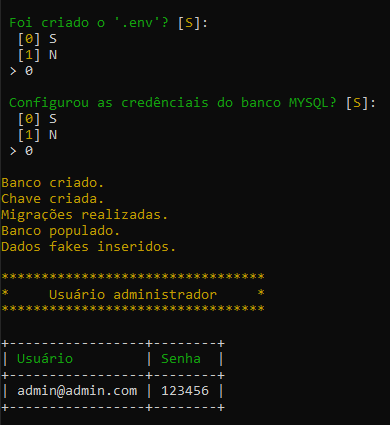
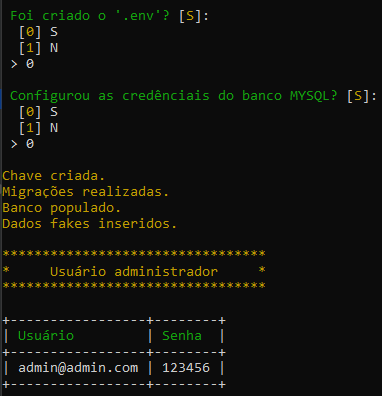
alterado start da aplicação

diff --git a/app/Console/Commands/dbcheck.php b/app/Console/Commands/dbcheck.php
@@ -5,14 +5,14 @@ namespace App\Console\Commands;
 use Illuminate\Console\Command;
 use Illuminate\Support\Facades\DB;
 
-class dbcreate extends Command
+class dbcheck extends Command
 {
     /**
      * The name and signature of the console command.
      *
      * @var string
      */
-    protected $signature = 'db:create {name?}';
+    protected $signature = 'db:check';
 
     /**
      * The console command description.
@@ -38,16 +38,14 @@ class dbcreate extends Command
      */
     public function handle()
     {
-        $schemaName = $this->argument('name') ?: config("database.connections.mysql.database");
-        $charset = config("database.connections.mysql.charset");
-        $collation = config("database.connections.mysql.collation");
+        if(!getenv('APP_NAME'))
+            die($this->error('.env não encontrado'));
 
-        config(["database.connections.mysql.database" => null]);
-
-        $query = "CREATE DATABASE IF NOT EXISTS $schemaName CHARACTER SET $charset COLLATE $collation;";
-
-        DB::statement($query);
-
-        config(["database.connections.mysql.database" => $schemaName]);
+        try {
+            DB::connection()->getPdo();
+        } catch (\Exception $e) {
+            die($this->error('Banco não encontrado'));
+        }
     }
+
 }

diff --git a/app/Console/Commands/start.php b/app/Console/Commands/start.php
@@ -43,14 +43,11 @@ class start extends Command
         $db = $this->choice("Configurou as credênciais do banco MYSQL?", ['S', 'N'], 0);
         if ($db == 'N') exit;
 
-        $this->callSilent('config:cache');
-        $this->call('db:create');
-        $this->comment('Banco criado.');
+        $this->call('db:check');
 
         $this->callSilent('key:generate');
         $this->comment('Chave criada.');
 
-        $this->callSilent('config:cache');
 
         $this->callSilent('migrate'); //--seed
         $this->comment('Migrações realizadas.');

diff --git a/README.md b/README.md
@@ -68,7 +68,7 @@ Instalar composer
 $ composer install
 ```
 
-Configurar `.env` com as credências do banco `Mysql` 
+Criar `database` e configurar `.env` com as credênciais
 ```
   DB_CONNECTION=mysql
   DB_HOST=127.0.0.1
@@ -77,6 +77,7 @@ Configurar `.env` com as credências do banco `Mysql`
   DB_USERNAME=root
   DB_PASSWORD=
 ```
+
 Iniciar a aplicação 
 ```
 $ php artisan start:app
